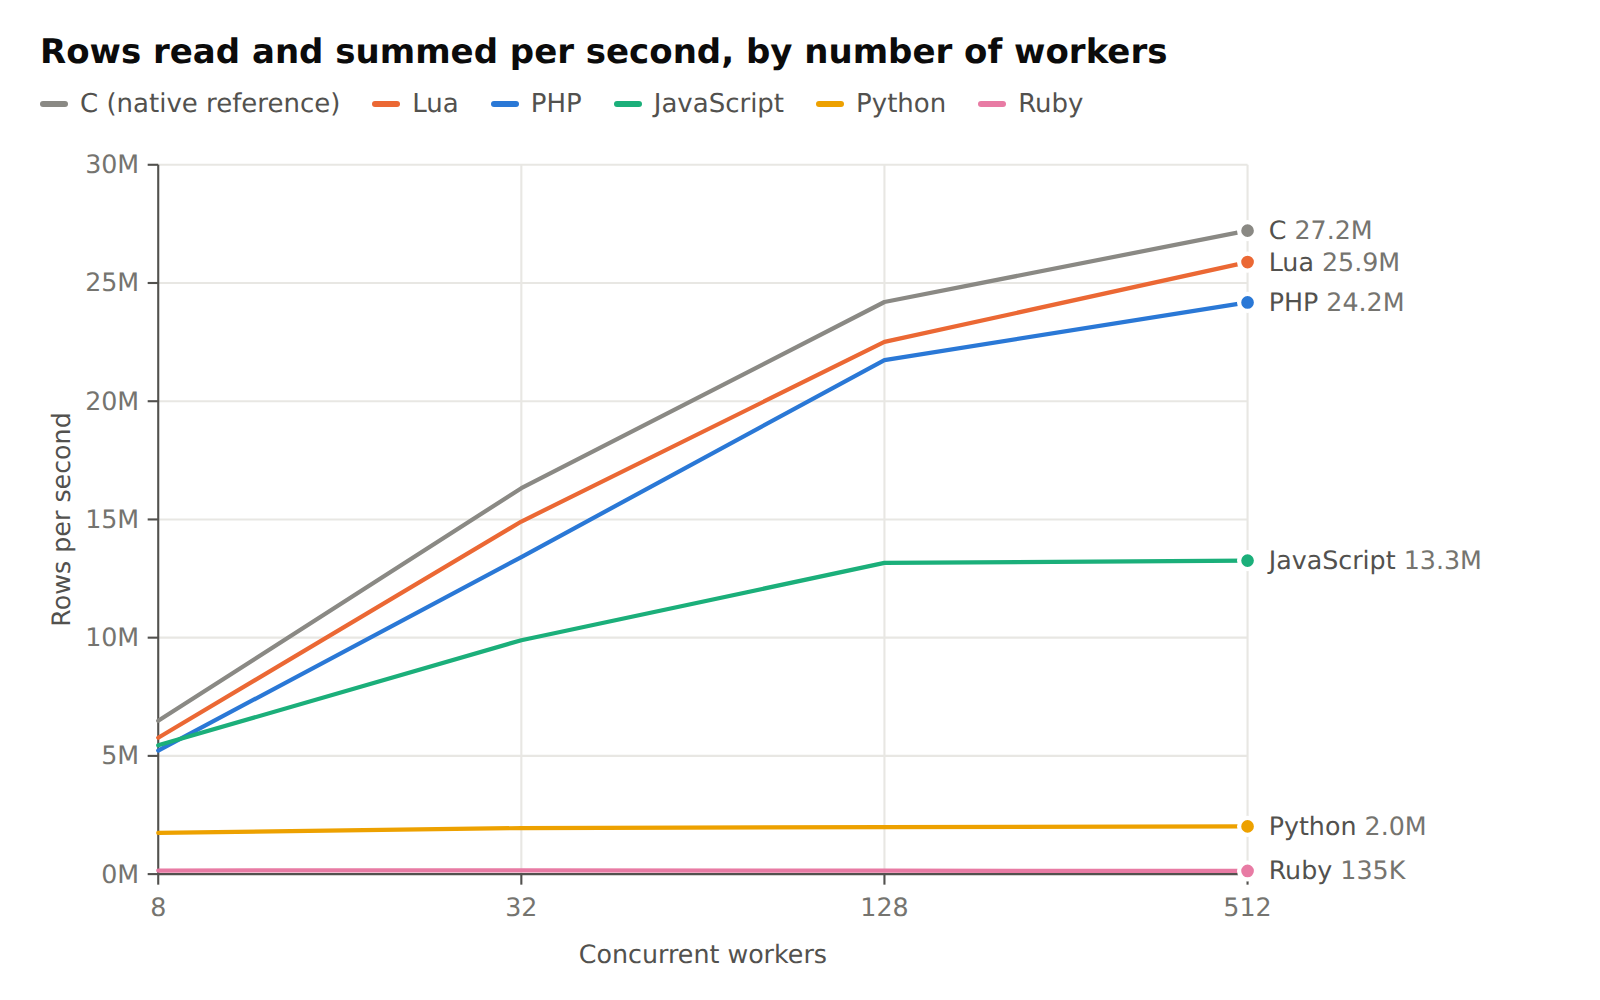
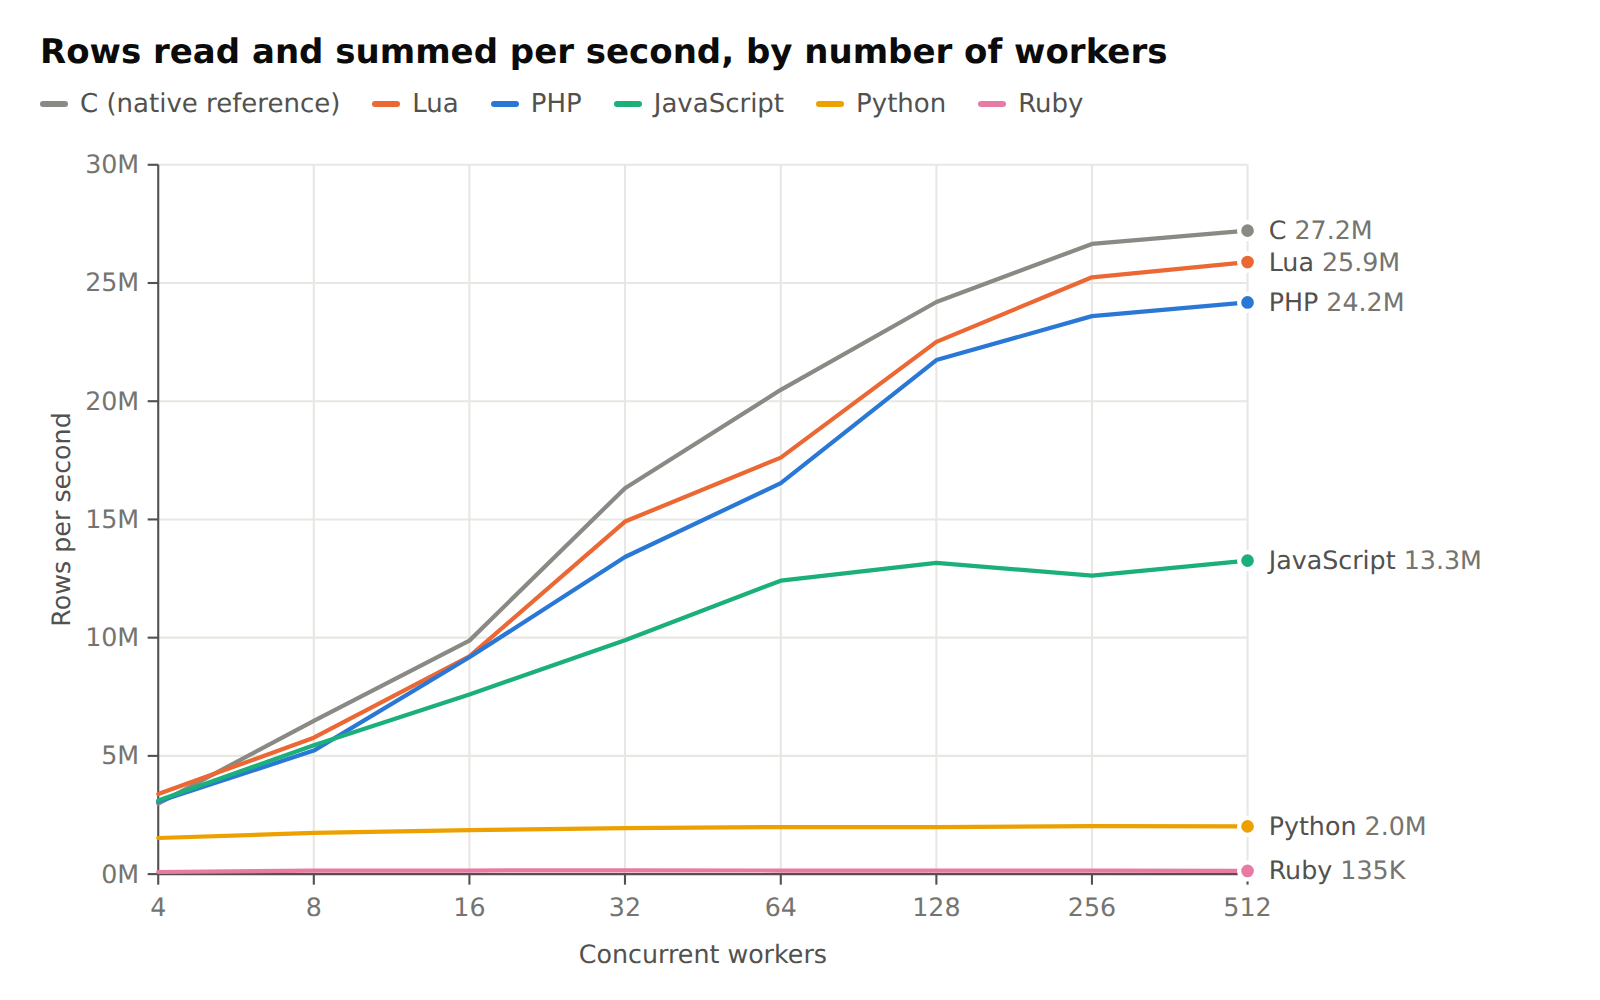
blog: restore all eight worker counts in the part 1 chart
Back to 4, 8, 16, 32, 64, 128, 256 and 512 workers, keeping the axis lines
and a vertical gridline at every worker count.

Claude-Session: https://claude.ai/code/session_01DVm3N343MAy56E6DLkPUGX

diff --git a/blog/build_charts.py b/blog/build_charts.py
@@ -18,7 +18,7 @@ BUILD = BLOG / "build"
 PNG = BLOG / "png"
 DATA = json.loads((ROOT / "runs" / "avg.json").read_text())
 
-THREADS = [8, 32, 128, 512]
+THREADS = [4, 8, 16, 32, 64, 128, 256, 512]
 
 # Light-mode palette (validated reference categorical slots 1-5, gray for C).
 INK, INK2, MUTED = "#0b0b0b", "#52514e", "#75746f"
